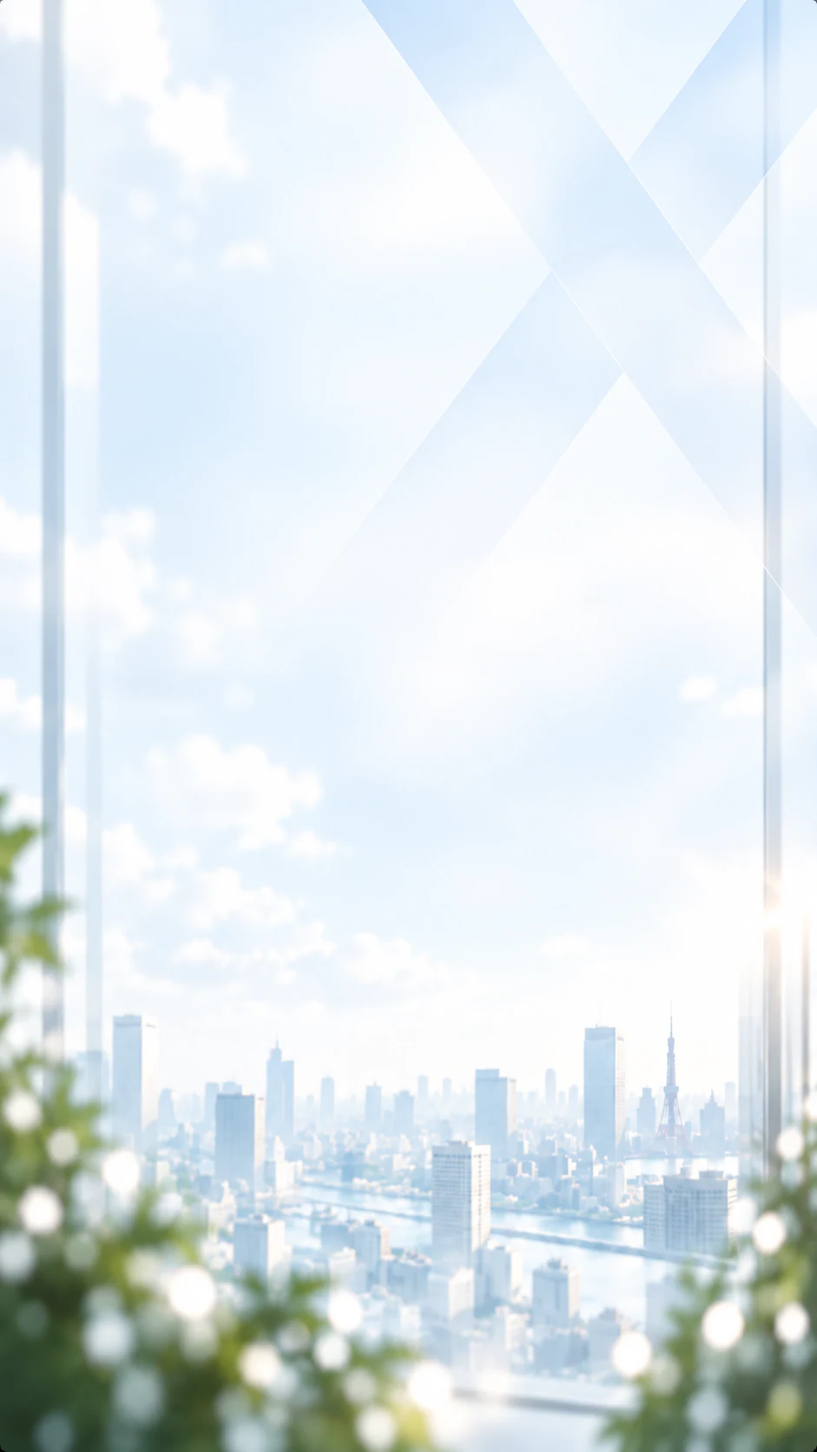
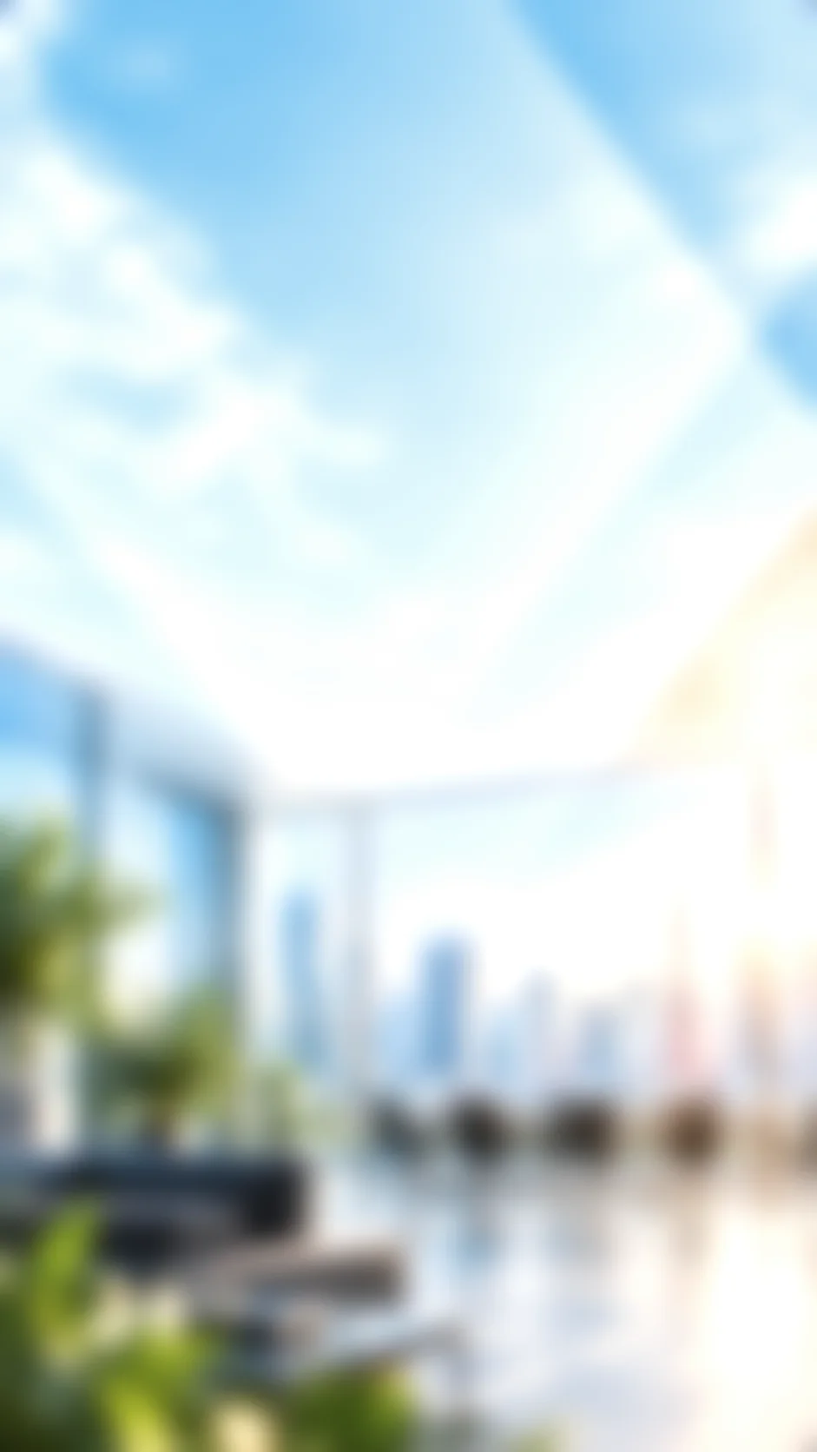
feat: #63 ABOUTを参照デザインに刷新し、共通背景をオフィス画像に差し替え
- ABOUT: 見出し/本文・メインビジュアル・Purpose(/about)/Company(/company)導線・Sales X/Creative Xの2カード
- Purpose/Companyはオフィス画像の別cropとグラデーションで、画像を増やさない
- hover(画像1.02倍・矢印3px・0.2秒)、見出し→メイン画像→カードの順の登場、SPは1カラム
- 共通背景をハンドオフ02/03(オフィス画像)にぼかしを焼き込んだものへ差し替え
- 不要になった about-office-mobile.webp を削除
- SPEC.md・テスト(#60の英語見出し、リンク先・SPの並び順・hover)を更新

diff --git a/css/hero-about.css b/css/hero-about.css
@@ -2,27 +2,56 @@
 .cxha-transition { --cxha-z-hero:2; --cxha-z-copy:3; --cxha-header:64px; background:#fff; }
 .cxha-stage { position:relative; isolation:isolate; }
 .cxha-hero-frame { position:relative; transform-origin:0 0; }
-.cxha-about { position:relative; padding:clamp(62px,7vw,112px) clamp(24px,5vw,80px) 54px; background:#fff; }
+.cxha-about { position:relative; padding:clamp(96px,8.6vw,150px) clamp(24px,4vw,64px) clamp(48px,4.5vw,72px); background:#fff; }
 .cxha-wordmark { position:absolute; top:0; left:3%; width:94%; overflow:hidden; color:rgba(21,88,161,.075); font-family:Arial,sans-serif; font-size:clamp(48px,14.2vw,270px); font-weight:900; line-height:1; letter-spacing:-.065em; white-space:nowrap; pointer-events:none; -webkit-text-size-adjust:100%; text-size-adjust:100%; }
-.cxha-wordmark span { background:linear-gradient(120deg,#005bfa,#fa4d12); color:transparent; background-clip:text; -webkit-background-clip:text; opacity:.2; }
-.cxha-main { position:relative; display:grid; grid-template-columns:minmax(0,1fr) minmax(0,1.15fr); align-items:center; gap:clamp(28px,4vw,70px); max-width:1560px; margin-inline:auto; }
+
+/* PC: copy | main visual | Purpose / Company links, then the two business cards. */
+.cxha-main { position:relative; display:grid; grid-template-columns:minmax(0,1.35fr) minmax(0,2.6fr) minmax(0,1fr); align-items:end; gap:clamp(16px,1.5vw,24px); max-width:1600px; margin-inline:auto; }
 .cxha-main>* { min-width:0; }
-.cxha-copy { position:relative; z-index:var(--cxha-z-copy); padding-block:35px; }
-.cxha-eyebrow { display:flex; align-items:center; gap:14px; margin:0 0 23px; font-size:12px; font-weight:700; letter-spacing:.2em; }
-.cxha-eyebrow::before { content:''; width:42px; height:1px; background:#07143b; }
-.cxha-about h2 { margin:0; color:#07143b; font-size:clamp(27px,2.5vw,46px); font-weight:800; line-height:1.65; letter-spacing:-.045em; word-break:normal; overflow-wrap:anywhere; text-wrap:pretty; }
-.cxha-description { max-width:520px; margin:25px 0 0; color:#435272; font-size:clamp(14px,1.05vw,17px); line-height:2; text-wrap:pretty; }
-.cxha-office { display:block; position:relative; align-self:center; overflow:hidden; aspect-ratio:1.35; border-radius:3px; background:#edf7fc; }
-.cxha-office img { display:block; width:100%; height:100%; object-fit:cover; object-position:68% center; }
-.cxha-values { position:relative; z-index:var(--cxha-z-copy); display:grid; grid-template-columns:repeat(3,minmax(0,1fr)); max-width:1560px; margin:50px auto 0; border-top:1px solid #dce4ed; }
-.cxha-value { min-width:0; position:relative; margin-top:25px; padding:0 clamp(18px,2vw,36px); border-left:1px solid #dce4ed; }
-.cxha-value:first-child { padding-left:0; border-left:0; }
-.cxha-value-number { display:block; margin-bottom:9px; color:#65728d; font-size:11px; letter-spacing:.12em; }
-.cxha-value h3 { margin:0; font-family:Arial,sans-serif; font-size:clamp(25px,2.2vw,37px); font-weight:800; letter-spacing:-.04em; line-height:1.3; }
-.cxha-value-sales h3 { color:#005bfa; }
-.cxha-value-creative h3 { color:#fa4d12; }
-.cxha-value-contents h3 { color:#07143b; }
-.cxha-value p { margin:12px 0 0; color:#435272; font-size:14px; line-height:1.8; overflow-wrap:anywhere; }
+.cxha-copy { position:relative; z-index:var(--cxha-z-copy); padding-bottom:clamp(20px,3vw,48px); }
+.cxha-about h2 { margin:0; color:#07143b; font-size:clamp(26px,2.2vw,44px); font-weight:900; line-height:1.45; letter-spacing:-.03em; word-break:normal; overflow-wrap:anywhere; text-wrap:pretty; }
+.cxha-description { max-width:30em; margin:clamp(16px,1.6vw,26px) 0 0; color:#172549; font-size:clamp(14px,1.05vw,17px); line-height:1.95; text-wrap:pretty; }
+.cxha-office { display:block; position:relative; overflow:hidden; aspect-ratio:2 / 1; border-radius:12px; background:#edf7fc; box-shadow:0 22px 50px rgba(17,52,104,.14); }
+.cxha-office img { display:block; width:100%; height:100%; object-fit:cover; object-position:42% 40%; }
+
+.cxha-links { position:relative; z-index:var(--cxha-z-copy); display:grid; gap:clamp(12px,1.2vw,18px); }
+.cxha-link { position:relative; display:flex; flex-direction:column; justify-content:flex-end; min-height:clamp(170px,14.6vw,290px); padding:clamp(16px,1.5vw,26px); overflow:hidden; isolation:isolate; border-radius:12px; color:#07143b; box-shadow:0 18px 44px rgba(17,52,104,.13); transition:box-shadow .2s ease; }
+/* The shared office image is reused with different crops; no extra image files. */
+.cxha-link-media { position:absolute; inset:0; z-index:-2; background:url('/material/home-2026/about-office-pc.webp') no-repeat; transition:transform .2s ease; }
+.cxha-link::after { content:''; position:absolute; inset:0; z-index:-1; transition:opacity .2s ease; }
+.cxha-link-purpose { justify-content:flex-start; }
+.cxha-link-purpose .cxha-link-media { background-size:340% auto; background-position:78% 26%; }
+.cxha-link-purpose::after { background:linear-gradient(180deg,rgba(255,255,255,.86) 0%,rgba(255,255,255,.6) 48%,rgba(255,255,255,.08) 100%); }
+.cxha-link-company { color:#fff; }
+.cxha-link-company .cxha-link-media { background-size:300% auto; background-position:34% 64%; }
+.cxha-link-company::after { background:linear-gradient(160deg,rgba(7,20,59,.2) 0%,rgba(7,20,59,.62) 52%,rgba(7,20,59,.9) 100%); }
+.cxha-link-body { display:grid; gap:10px; padding-right:28px; }
+.cxha-link strong { font-size:clamp(14px,1.15vw,20px); font-weight:900; line-height:1.55; letter-spacing:-.01em; word-break:auto-phrase; line-break:strict; text-wrap:pretty; }
+.cxha-link-purpose .cxha-link-body { padding-right:0; }
+.cxha-link-purpose strong::after { content:''; display:block; width:34px; height:2px; margin-top:clamp(10px,1vw,16px); background:currentColor; opacity:.55; }
+.cxha-link-label { font-family:Inter,Arial,sans-serif; font-size:11px; font-weight:800; letter-spacing:.14em; line-height:1.4; }
+.cxha-link-arrow { position:absolute; right:clamp(16px,1.5vw,26px); bottom:clamp(14px,1.4vw,24px); font-size:20px; line-height:1; transition:transform .2s ease; }
+
+.cxha-values { position:relative; z-index:var(--cxha-z-copy); display:grid; grid-template-columns:minmax(0,1.15fr) minmax(0,1fr) minmax(0,1fr); gap:clamp(12px,1.4vw,22px); max-width:1600px; margin:clamp(16px,1.5vw,24px) auto 0; padding:clamp(14px,1.5vw,26px); border:1px solid rgba(255,255,255,.8); border-radius:16px; background:rgba(255,255,255,.6); box-shadow:0 20px 50px rgba(17,52,104,.08); }
+.cxha-values-intro { min-width:0; align-self:center; padding:6px clamp(14px,2vw,34px) 6px clamp(8px,1.2vw,20px); border-right:1px solid rgba(7,20,59,.22); }
+.cxha-values-intro h3 { margin:0; color:#07143b; font-size:clamp(19px,1.6vw,28px); font-weight:900; line-height:1.45; }
+.cxha-values-intro p { margin:10px 0 0; color:#172549; font-size:clamp(12px,.95vw,15px); line-height:1.8; text-wrap:pretty; }
+.cxha-value { position:relative; display:flex; flex-direction:column; min-width:0; min-height:clamp(130px,11vw,190px); padding:clamp(18px,1.8vw,30px) clamp(18px,2vw,34px); overflow:hidden; border:1px solid #e3ebf5; border-radius:12px; background:rgba(255,255,255,.94); color:#07143b; box-shadow:0 10px 28px rgba(17,52,104,.06); transition:background .2s ease,box-shadow .2s ease; }
+.cxha-value-number { position:absolute; top:clamp(6px,.8vw,14px); right:clamp(14px,1.6vw,28px); color:rgba(7,20,59,.05); font-family:Arial,sans-serif; font-size:clamp(46px,5vw,86px); font-weight:900; line-height:1; letter-spacing:-.04em; -webkit-text-size-adjust:100%; text-size-adjust:100%; }
+.cxha-value h3 { position:relative; margin:0; font-family:Arial,'Noto Sans JP',sans-serif; font-size:clamp(25px,2.3vw,42px); font-weight:800; letter-spacing:-.04em; line-height:1.2; }
+.cxha-value-sales h3 span { color:#005bfa; }
+.cxha-value-creative h3 span { color:#fa4d12; }
+.cxha-value p { position:relative; margin:clamp(10px,1vw,16px) 0 0; padding-right:34px; color:#172549; font-size:clamp(13px,1vw,16px); font-weight:500; line-height:1.7; overflow-wrap:anywhere; }
+.cxha-value-arrow { position:absolute; right:clamp(18px,2vw,34px); bottom:clamp(16px,1.6vw,26px); font-size:20px; line-height:1; transition:transform .2s ease; }
+.cxha-link:focus-visible,.cxha-value:focus-visible { outline:3px solid #005cff; outline-offset:3px; }
+
+@media (hover:hover) {
+  .cxha-link:hover { box-shadow:0 22px 52px rgba(17,52,104,.2); }
+  .cxha-link:hover .cxha-link-media { transform:scale(1.02); }
+  .cxha-link:hover::after { opacity:.9; }
+  .cxha-link:hover .cxha-link-arrow,.cxha-value:hover .cxha-value-arrow { transform:translateX(3px); }
+  .cxha-value:hover { background:#fff; box-shadow:0 16px 36px rgba(17,52,104,.11); }
+}
 
 @media (prefers-reduced-motion:no-preference) {
   .cxha-transition.cxha-ready { height:calc(var(--cxha-scene-height) + var(--cxha-distance)); }
@@ -35,19 +64,32 @@
   .cxha-ready [data-cxha-step] { opacity:var(--cxha-step,0); transform:translateY(calc((1 - var(--cxha-step,0)) * 14px)); }
   .cxha-ready .cxha-office { opacity:var(--cxha-office,0); }
 }
+@media (prefers-reduced-motion:reduce) {
+  .cxha-link,.cxha-link-media,.cxha-link::after,.cxha-link-arrow,.cxha-value,.cxha-value-arrow { transition:none; }
+}
+
+/* Tablet: copy spans the top; visual and links share the second row. */
+@media (max-width:1100px) {
+  .cxha-main { grid-template-columns:minmax(0,1.75fr) minmax(0,1fr); }
+  .cxha-copy { grid-column:1 / -1; padding-bottom:0; }
+  .cxha-values { grid-template-columns:repeat(2,minmax(0,1fr)); }
+  .cxha-values-intro { grid-column:1 / -1; padding:4px 6px 14px; border-right:0; border-bottom:1px solid rgba(7,20,59,.16); }
+}
+/* SP: ABOUT → copy → main visual → Purpose → Company → Sales X → Creative X. */
 @media (max-width:768px) {
-  .cxha-about { padding-top:68px; padding-bottom:40px; }
-  .cxha-main { grid-template-columns:minmax(0,1fr); gap:28px; max-width:560px; }
-  .cxha-copy { padding-block:0; }
-  .cxha-eyebrow { margin-bottom:18px; }
-  .cxha-about h2 { font-size:clamp(26px,5.5vw,40px); line-height:1.6; }
-  .cxha-description { margin-top:20px; font-size:clamp(14px,2.5vw,17px); line-height:1.95; }
-  .cxha-office { width:100%; aspect-ratio:941 / 1250; }
-  .cxha-office img { object-position:center bottom; }
-  .cxha-values { grid-template-columns:minmax(0,1fr); max-width:560px; margin-top:32px; }
-  .cxha-value,.cxha-value:first-child { margin:0; padding:24px 0; border-left:0; border-bottom:1px solid #dce4ed; }
-  .cxha-value-number { position:absolute; right:0; top:28px; }
-  .cxha-value h3 { padding-right:35px; font-size:clamp(26px,6vw,36px); }
-  .cxha-value p { margin-top:8px; }
+  .cxha-about { padding:clamp(76px,20vw,110px) 16px 44px; }
+  .cxha-main { grid-template-columns:minmax(0,1fr); gap:20px; max-width:560px; }
+  .cxha-about h2 { font-size:clamp(26px,7vw,38px); line-height:1.5; }
+  .cxha-description { margin-top:16px; font-size:clamp(14px,3.8vw,16px); line-height:1.9; }
+  .cxha-office { aspect-ratio:4 / 3; }
+  .cxha-office img { object-position:34% center; }
+  .cxha-links { gap:12px; }
+  .cxha-link { min-height:clamp(150px,40vw,210px); }
+  .cxha-link strong { font-size:clamp(16px,4.6vw,19px); }
+  .cxha-values { grid-template-columns:minmax(0,1fr); gap:12px; max-width:560px; margin-top:12px; padding:0; border:0; background:none; box-shadow:none; }
+  .cxha-values-intro { display:none; }
+  .cxha-value { min-height:0; padding:22px 20px; }
+  .cxha-value h3 { font-size:clamp(28px,8vw,36px); }
+  .cxha-value p { font-size:clamp(14px,3.8vw,16px); }
 }
 @media (max-width:480px) { .cxha-transition { --cxha-header:56px; } }

diff --git a/index.html b/index.html
@@ -257,19 +257,38 @@
           <div class="cxha-wordmark cxsb-label" aria-hidden="true" data-i18n-skip>ABOUT</div>
           <div class="cxha-main">
             <div class="cxha-copy">
-              <p class="cxha-eyebrow" data-cxha-step="label">ABOUT</p>
-              <h2 id="cxha-title" data-cxha-step="heading" data-i18n-html data-ja="セールスとクリエイティブで、<br>企業の価値を社会へ届ける。" data-en="Bringing business value to the world through sales and creativity.">セールスとクリエイティブで、<br>企業の価値を社会へ届ける。</h2>
-              <p class="cxha-description" data-cxha-step="body" data-ja="Contents Xは、セールスとクリエイティブの力で企業の成長を支える会社です。新しい接点をつくり、価値を伝え、成果につながる流れを一緒につくります。" data-en="Contents X supports business growth through sales and creativity. We connect businesses with customers, communicate their value, and build a path to results together.">Contents Xは、セールスとクリエイティブの力で企業の成長を支える会社です。新しい接点をつくり、価値を伝え、成果につながる流れを一緒につくります。</p>
+              <h2 id="cxha-title" data-cxha-step="heading" data-i18n-html data-ja="コンテンツで、<br>企業の可能性をひらく。" data-en="Unlocking business potential<br>through content.">コンテンツで、<br>企業の可能性をひらく。</h2>
+              <p class="cxha-description" data-cxha-step="body" data-ja="Contents Xは、セールスとクリエイティブの力で、戦略・企画・制作・配信までを一気通貫で支援し、企業の可能性をひらくパートナーです。" data-en="Contents X combines sales and creativity to support everything from strategy and planning to production and distribution, helping businesses unlock their potential.">Contents Xは、セールスとクリエイティブの力で、戦略・企画・制作・配信までを一気通貫で支援し、企業の可能性をひらくパートナーです。</p>
             </div>
             <picture class="cxha-office">
-              <source media="(max-width: 768px)" srcset="/material/home-2026/about-office-mobile.webp" width="941" height="1672">
-              <img src="/material/home-2026/about-office-pc.webp" alt="青空と街並みが広がる、明るいオフィスのイメージ" width="1672" height="941" loading="eager" decoding="async">
+              <img src="/material/home-2026/about-main-visual.webp" alt="高層ビル群を望む会議室で、提案に耳を傾けるビジネスパーソンたちのイメージ" width="1672" height="941" loading="eager" decoding="async">
             </picture>
+            <div class="cxha-links" data-cxha-step="links">
+              <a class="cxha-link cxha-link-purpose" href="/about">
+                <span class="cxha-link-media" aria-hidden="true"></span>
+                <span class="cxha-link-body">
+                  <strong data-i18n-html data-ja="コンテンツの力で、<br>社会にもっといい未来を。" data-en="A better future<br>through the power of content.">コンテンツの力で、<br>社会にもっといい未来を。</strong>
+                  <span class="cxha-link-label" data-i18n-skip>OUR PURPOSE</span>
+                </span>
+                <span class="cxha-link-arrow" aria-hidden="true">→</span>
+              </a>
+              <a class="cxha-link cxha-link-company" href="/company">
+                <span class="cxha-link-media" aria-hidden="true"></span>
+                <span class="cxha-link-body">
+                  <strong data-ja="私たちについて" data-en="About us">私たちについて</strong>
+                  <span class="cxha-link-label" data-i18n-skip>COMPANY</span>
+                </span>
+                <span class="cxha-link-arrow" aria-hidden="true">→</span>
+              </a>
+            </div>
           </div>
           <div class="cxha-values" data-cxha-step="values">
-            <article class="cxha-value cxha-value-sales"><span class="cxha-value-number" aria-hidden="true">01</span><h3>Sales X</h3><p data-ja="接点をつくり、売上につなげる。" data-en="Create connections that lead to growth.">接点をつくり、売上につなげる。</p></article>
-            <article class="cxha-value cxha-value-creative"><span class="cxha-value-number" aria-hidden="true">02</span><h3>Creative X</h3><p data-ja="価値を、伝わるカタチにする。" data-en="Make business value visible.">価値を、伝わるカタチにする。</p></article>
-            <article class="cxha-value cxha-value-contents"><span class="cxha-value-number" aria-hidden="true">03</span><h3>Contents X</h3><p data-ja="営業と創造をつなぎ、成長を支える。" data-en="Connect sales and creativity for lasting growth.">営業と創造をつなぎ、成長を支える。</p></article>
+            <div class="cxha-values-intro">
+              <h3 data-i18n-html data-ja="価値を生み出す、<br>2つの力。" data-en="Two strengths<br>that create value.">価値を生み出す、<br>2つの力。</h3>
+              <p data-ja="Contents Xは、セールスとクリエイティブの掛け合わせで、ビジネスの成果と、心を動かすコンテンツの力をつなぎます。" data-en="By combining sales and creativity, Contents X connects business results with content that moves people.">Contents Xは、セールスとクリエイティブの掛け合わせで、ビジネスの成果と、心を動かすコンテンツの力をつなぎます。</p>
+            </div>
+            <a class="cxha-value cxha-value-sales" href="/services/sales-x/"><span class="cxha-value-number" aria-hidden="true">01</span><h3>Sales <span>X</span></h3><p data-ja="市場と顧客に、価値を届ける。" data-en="Deliver value to markets and customers.">市場と顧客に、価値を届ける。</p><span class="cxha-value-arrow" aria-hidden="true">→</span></a>
+            <a class="cxha-value cxha-value-creative" href="/services/creative-x/"><span class="cxha-value-number" aria-hidden="true">02</span><h3>Creative <span>X</span></h3><p data-ja="心を動かすコンテンツをつくる。" data-en="Create content that moves people.">心を動かすコンテンツをつくる。</p><span class="cxha-value-arrow" aria-hidden="true">→</span></a>
           </div>
         </section>
       </div>

diff --git a/js/hero-about.js b/js/hero-about.js
@@ -79,7 +79,8 @@
     transition.style.setProperty('--cxha-wordmark', range(p, .12, .4));
     transition.style.setProperty('--cxha-office', range(p, .54, .94));
     transition.style.setProperty('--cxha-about-pointer', p >= .35 ? 'auto' : 'none');
-    var timings = { label:[.26,.48], heading:[.34,.58], body:[.44,.7], values:[.7,.96] };
+    // Heading → main visual (office, .54–.94) → Purpose/Company links → business cards.
+    var timings = { label:[.26,.48], heading:[.34,.58], body:[.44,.7], links:[.62,.9], values:[.72,.98] };
     steps.forEach(function (node) {
       var timing = timings[node.dataset.cxhaStep];
       node.style.setProperty('--cxha-step', range(p, timing[0], timing[1]));

diff --git a/tests/test_section_backdrop.py b/tests/test_section_backdrop.py
@@ -95,6 +95,10 @@ with sync_playwright() as p:
         page.locator('.cxsb-section h2,.cxsb-section p:not(.cxsb-label),.cxsb-section .news-link,.cxsb-section small,.cxsb-section strong').evaluate_all('(nodes)=>nodes.forEach(e=>e.style.fontSize=(parseFloat(getComputedStyle(e).fontSize)*1.4)+"px")')
         page.wait_for_timeout(150)
         assert_sections(page, width)
+        if width <= 768:
+            order = ['.cxha-copy', '.cxha-office', '.cxha-link-purpose', '.cxha-link-company', '.cxha-value-sales', '.cxha-value-creative']
+            tops = [page.locator(f'#home-about {sel}').evaluate('e=>e.getBoundingClientRect().top') for sel in order]
+            assert tops == sorted(tops), f'SP order broken at {width}px: {tops}'
         assert not errors, errors
         report.append({'width': width, 'layout': 'pass', 'snap': snap or 'none', 'text_1_4x': 'pass'})
         page.close()
@@ -111,6 +115,23 @@ with sync_playwright() as p:
     middle = top_of(page, '#about') - 64 + 700
     scroll(page, middle, 1500)
     assert abs(page.evaluate('scrollY') - middle) <= 2
+    page.close()
+
+    # ABOUT (Issue #63): Purpose / Company links and the two business cards use existing URLs.
+    page = browser.new_page(viewport={'width': 1440, 'height': 900})
+    load(page, args.url)
+    hrefs = page.locator('#home-about a').evaluate_all('(nodes)=>nodes.map(n=>n.getAttribute("href"))')
+    assert hrefs == ['/about', '/company', '/services/sales-x/', '/services/creative-x/'], hrefs
+    assert page.locator('#home-about .cxha-value').count() == 2
+    assert page.locator('#home-about .cxha-value h3').all_inner_texts() == ['Sales X', 'Creative X']
+    scroll(page, about_complete(page), 1500)
+    for selector in ['.cxha-links', '.cxha-values']:
+        assert page.locator(f'#home-about {selector}').evaluate('e=>getComputedStyle(e).opacity') == '1'
+    link = page.locator('.cxha-link-purpose')
+    link.hover()
+    page.wait_for_timeout(400)
+    assert link.locator('.cxha-link-media').evaluate('e=>getComputedStyle(e).transform') == 'matrix(1.02, 0, 0, 1.02, 0, 0)'
+    assert link.locator('.cxha-link-arrow').evaluate('e=>getComputedStyle(e).transform') == 'matrix(1, 0, 0, 1, 3, 0)'
     page.close()
 
     # Hover feedback on news rows survives the entrance animation.

diff --git a/tests/test_hero_about.py b/tests/test_hero_about.py
@@ -110,7 +110,7 @@ with sync_playwright() as p:
     # Translation must preserve an intelligible headline and adapt its dimensions.
     page.evaluate('window.i18n.switchLang("en")')
     page.wait_for_timeout(100)
-    assert 'business value' in page.locator('#cxha-title').inner_text()
+    assert 'business potential' in page.locator('#cxha-title').inner_text()
     assert_layout(page)
     page.close()
     # Links in the original Hero still navigate; Home returns to the full Hero.

diff --git a/SPEC.md b/SPEC.md
@@ -59,9 +59,9 @@ contact フォーム送信時にメッセージ末尾にトラッキング情報
 ### Hero直下のAboutと接続演出（Issue #59）
 
 - `index.html` の既存Heroはマークアップ・初期デザインを維持し、`.cxha-transition` / `.cxha-stage` / `.cxha-hero-frame` で包む。直後に `#home-about` を置く。既存のサービス用 `#about` と会社案内URL `/about` は維持する。
-- Aboutは白地、濃紺の見出し「セールスとクリエイティブで、企業の価値を社会へ届ける。」、短い会社説明、薄い巨大な `CONTENTS X`、右側のオフィス画像、下部の Sales X / Creative X / Contents X の3要素で構成。Sales Xは青、Creative Xはオレンジ。768px以下では本文→縦長画像→3要素を縦並びにする。
-- ユーザー提供のオフィス素材をWebPに変換して `material/home-2026/about-office-pc.webp`（1672×941）、`about-office-mobile.webp`（941×1672）に格納。`picture`で768pxを境に切り替える。オフィスはイメージ画像であり、実際の所在地写真として扱わない。遷移参考画像は実装素材には含めない。
-- 専用の `css/hero-about.css` / `js/hero-about.js` を使用。ネイティブスクロールとstickyで、画面高の1.15倍（480〜1000px）のスクロール区間に追従する。Hero全体を中央へ縮小し、白い余白を開く→巨大文字→ABOUT→見出し→本文→3要素の順に表示する。Heroのコピーは先に薄くし、Xを含む背景は後半まで残してオフィス画像とクロスフェードする。PCでは画像位置へ、スマホでは中央線を維持して主に縦へつなぐ。
+- ABOUTの内容・レイアウトは Issue #63 で刷新（下の「ABOUTの構成（Issue #63）」）。この節は Hero→ABOUT の接続演出の仕様。
+- ユーザー提供のオフィス素材 `material/home-2026/about-office-pc.webp`（1672×941）は、#63 以降 Purpose / Company カードの画像（別crop）として使う。スマホ用の縦長版 `about-office-mobile.webp` は #63 で不要になり削除。オフィスはイメージ画像であり、実際の所在地写真として扱わない。遷移参考画像は実装素材には含めない。
+- 専用の `css/hero-about.css` / `js/hero-about.js` を使用。ネイティブスクロールとstickyで、画面高の1.15倍（480〜1000px）のスクロール区間に追従する。Hero全体を中央へ縮小し、余白を開く→巨大文字→見出し→本文→メインビジュアル→Purpose / Company→事業カードの順に表示する（`js/hero-about.js` の `timings`）。Heroのコピーは先に薄くし、Xを含む背景は後半まで残してメインビジュアルとクロスフェードする。PCでは画像位置へ、スマホでは中央線を維持して主に縦へつなぐ。
 - 描画は受動的なscroll監視とrequestAnimationFrameでまとめる。wheel/touchのキャンセルやスクロールロックを行わない。逆スクロールでも同じ量に戻り、サイズ変更・文字拡大・フォント読込・i18n切替・履歴復帰時には実寸から再計算する。非表示のAboutがHeroのCTAを遮らないよう初期はpointer-eventsを無効にする。薄くなったHeroのリンクはinertでクリック・フォーカスを抑え、完了後にaria-hiddenにする。
 - `#home-about` への直接アクセスは演出完了位置へ、既存ナビの `#hero` は縮小前の先頭へ戻す。通常のアンカー操作・戻る/進むで表示状態が食い違わないようにする。
 - JS無効時と `prefers-reduced-motion: reduce` ではHero→Aboutを通常フローで全表示し、sticky・縮小・フェードを使わない。設定の実行中変更にも追従する。i18n.js → nav.jsの既存読込順は維持する。
@@ -69,12 +69,23 @@ contact フォーム送信時にメッセージ末尾にトラッキング情報
 ### ABOUT / SERVICE / NEWS の共通背景（Issue #61）
 
 - 対象は `#home-about`（ABOUT）、`#about`（サービス一覧＝SERVICE）、`#news`（NEWS）の3つ。各セクションに `.cxsb-section` を付け、間のコンセプト・Sales X / Creative X・流れ・会社紹介・相談CTAは従来どおり白系の背景のまま残す。
-- 背景は東京の高層オフィス窓辺＋薄いXモチーフのイメージ画像。`material/home-2026/section-bg-pc.webp`（1672×941）と `section-bg-mobile.webp`（941×1672）を、768px以下または縦長画面（縦横比3:4以下）で切り替える。実在のオフィス写真としては扱わない。
+- 背景はハンドオフ（ContentsX_About_Handoff）の `02_common_bg_pc` / `03_common_bg_sp`（= #59 のオフィス画像）に、ぼかし（PC 15px・SP 16px相当）と明るさ調整を焼き込んだもの。`material/home-2026/section-bg-pc.webp`（1672×941）と `section-bg-mobile.webp`（941×1672）を、768px以下または縦長画面（縦横比3:4以下）で切り替える。CSSの `filter: blur` はスクロール中の描画負荷が高いため使わない。実在のオフィス写真としては扱わない。
 - 各セクション先頭の `.cxsb-backdrop` を `position:fixed` で画面全体に置き、セクション側の `clip-path:inset(0)` で切り抜く。背景は動かず、カード・見出しだけが上を流れる（`background-attachment:fixed` は iOS で効かないため使わない）。白いベールで濃紺文字の可読性を保ち、上下端は白へフェードして隣の白いセクションへつなぐ。
 - 各セクション上部に大きく薄い英字 `.cxsb-label`（ABOUT / SERVICE / NEWS、`aria-hidden`・`data-i18n-skip`・`text-size-adjust:100%`）。ABOUTは #59 の巨大文字 `.cxha-wordmark` の文言を「CONTENTS X」から「ABOUT」へ変更して流用し、表示タイミングは #59 のスクロール連動のまま。
 - 動き: SERVICE / NEWS の英字は左から軽くスライドしてフェード、サービス列とニュースのカードは下から＋scale .97→1 で登場、ニュースの行は0.08秒ずつ時間差。いずれも `home-2026.js` の既存 `data-cxh-reveal` を使い、新しいJSは追加しない。ニュースの行はhover可能な端末だけ右へ4px動かす。NEWSの一覧は白いカードにし、本文幅はサービスと同じ `min(100% - 80px, 1250px)`（スマホは `min(100% - 32px, 560px)`）。
 - スクロールスナップ: 1025px以上かつマウス操作の端末だけ `html` に `scroll-snap-type:y proximity`。SERVICE / NEWS は先頭（固定ヘッダー64px下）、ABOUTは #59 の演出完了位置に置いた `.cxsb-about-snap` に吸着する。背の高いセクションの途中では引き戻さない。1024px以下・タッチ端末ではスナップなし。既存の `.cxh-home main [id]` の80pxずらしより後に読み込み、同じ詳細度で64pxに上書きしている。
 - CSSは `css/home-sections.css`（`hero-about.css` の後に読込）。検証は `python3 tests/test_section_backdrop.py --url <loopback preview> --artifacts <output>`（16幅、背景の固定、画像切替、隣セクションへの漏れ、文字1.4倍、PCのみのスナップ、hover、動き軽減、JS無効）。
+
+### ABOUTの構成（Issue #63）
+
+- 基準: ハンドオフ `ContentsX_About_Handoff/00_reference_about.png`。画面を1枚画像にせず、背景・画像・文字・カードをHTML/CSSで分ける。ヘッダーは共通ヘッダーのまま。
+- PC（1101px以上）: 左に見出し「コンテンツで、企業の可能性をひらく。」と本文、中央に大きなメインビジュアル `.cxha-office`（`material/home-2026/about-main-visual.webp`、1672×941、2:1で表示）、右に Purpose 導線（「コンテンツの力で、社会にもっといい未来を。」OUR PURPOSE → `/about`）と Company 導線（「私たちについて」COMPANY → `/company`）。下段は半透明の白い帯に「価値を生み出す、2つの力。」の導入文と、Sales X（→ `/services/sales-x/`）/ Creative X（→ `/services/creative-x/`）の2カード。Contents Xカードは置かない。カードのXは Sales X が青、Creative X がオレンジ。
+- Purpose / Company カードは新しい画像を増やさず、`about-office-pc.webp` を `background-size` / `background-position` で別の範囲に切り出し、Purpose は白、Company は濃紺のグラデーションを重ねる。
+- 769〜1100px: 見出し・本文を上段の全幅、メインビジュアルとPurpose / Companyを2列、導入文を全幅にして事業カードを2列。
+- 768px以下: ABOUT → 見出し/本文 → メインビジュアル（4:3）→ Purpose → Company → Sales X → Creative X の1カラム。導入文はスマホでは出さない。横移動や強いstickyは使わない（#59の縮小演出は中央線のまま縦方向）。
+- hover（hover可能な端末のみ・0.2秒）: Purpose / Companyの画像を1.02倍、矢印を3px右へ、重ねた色をわずかに薄く。事業カードは背景を白に、影を強め、矢印を3px右へ。キーボードフォーカスは青い枠。
+- 登場は #59 のスクロール連動の中で、見出し→メインビジュアル→導線カード→事業カードの順に軽くfade-up。`prefers-reduced-motion: reduce` とJS無効時は全表示し、hoverの変化も止める。
+- CSSは `css/hero-about.css`、背景とスナップは `css/home-sections.css`（#61）。検証は `tests/test_hero_about.py`（#59の演出・Hero比較）と `tests/test_section_backdrop.py`（リンク先4件、事業カード2枚、SPの並び順、hover）。
 
 ### 3.0 サービスページ生成（Issue #20）
 
